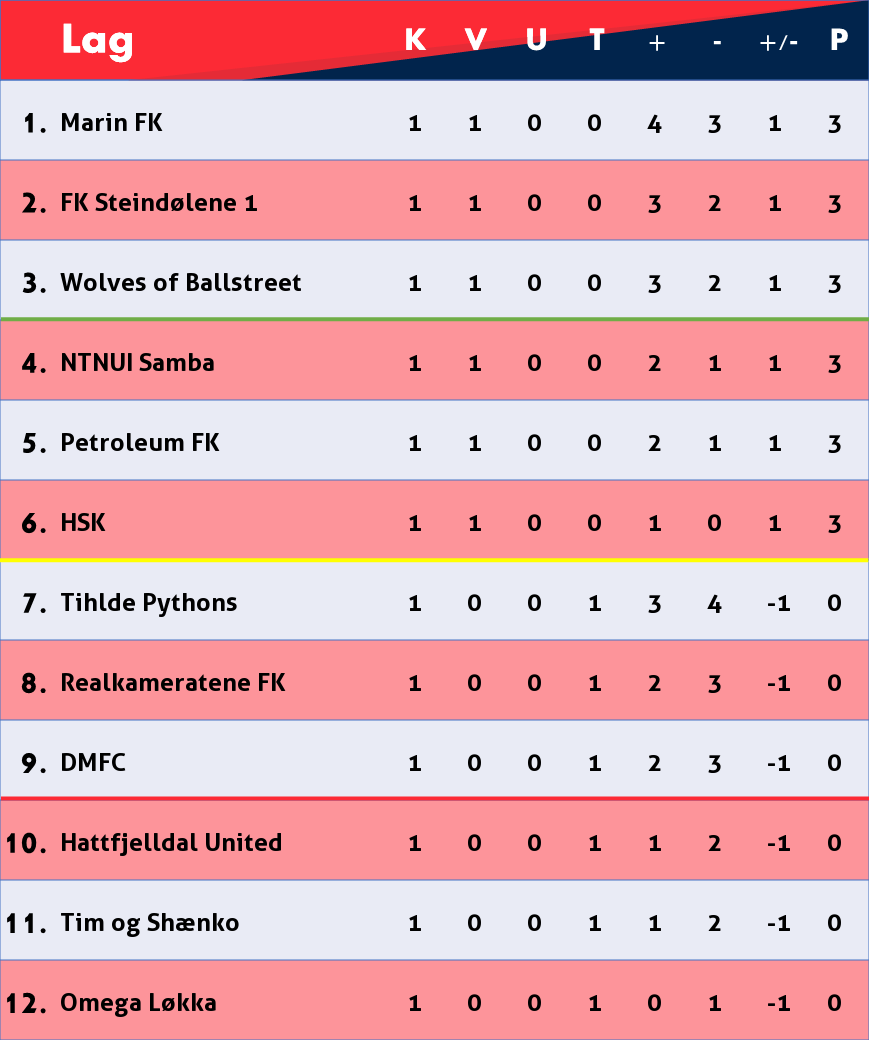
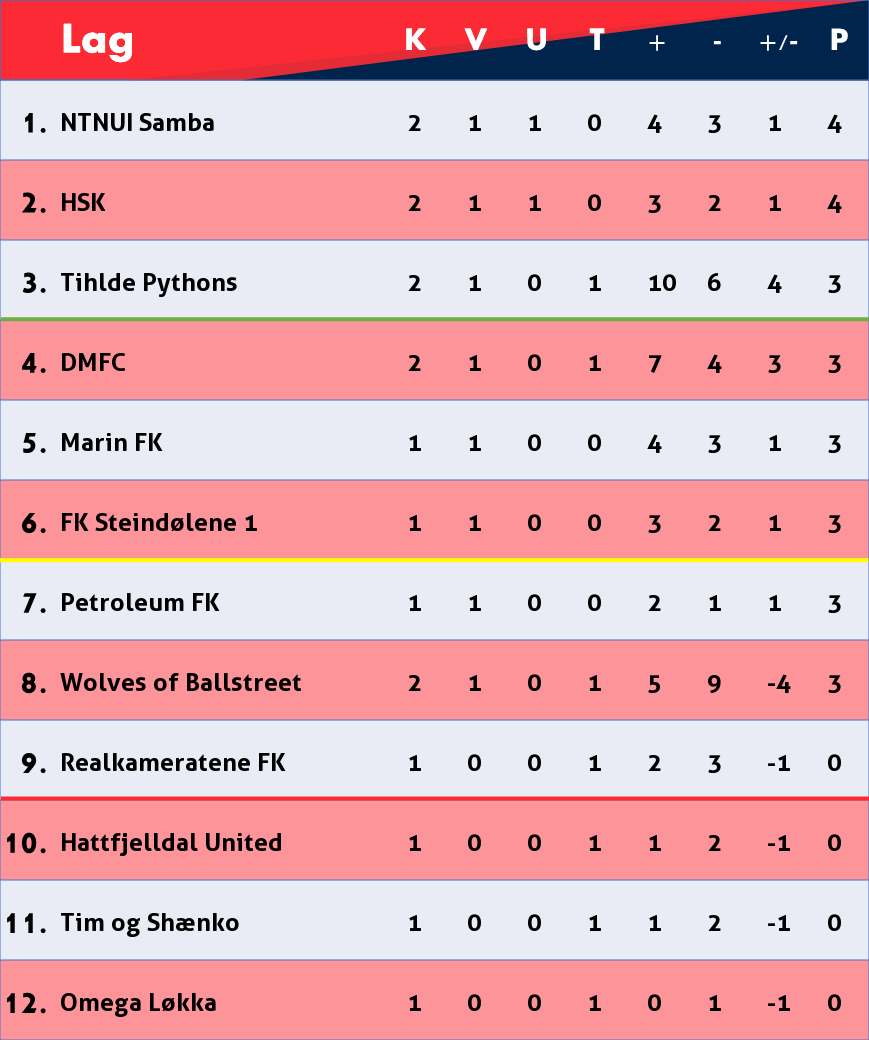
topscorer index update + tables

diff --git a/Scripts/TopScorer.py b/Scripts/TopScorer.py
@@ -27,29 +27,39 @@ def createTopScore(data, avd):
     fontS = ImageFont.truetype("Scripts/Fonts/Aller_Bd.ttf", 25)
     fontB = ImageFont.truetype("Scripts/Fonts/Aller_Bd.ttf", 30)
     y = 230
-    x = 270
+    x = 15
     xOff = [54, 64, 73]
     yOff = [146, 378, 591]
     scale = [200, 181, 163]
 
-    i = 0
+    prevGoals = 0
+    prevNum = 1
     for index, row in data.iterrows():
-        if i < 3:
-            draw.text((x, y),row[0],(0,0,0),font=fontB)
-            draw.text((x + 300, y),row[1],(0,0,0),font=fontB)
-            draw.text((x + 640, y),str(row[2]),(0,0,0),font=fontB)
-            y = y + 222 - i*10
-            logo = Image.open("Scripts/Logoer - Runde/" + row[1] + ".png")
-            size = (scale[i], scale[i])
-            logo = logo.resize(size, Image.ANTIALIAS)
-            img.paste(logo,(xOff[i], yOff[i]), mask = logo)
+
+        if row[2] == prevGoals:
+            num = prevNum
         else:
-            x = 60
-            y = 817 + 64*(i-3)
-            draw.text((x, y),row[0],(0,0,0),font=fontS)
-            draw.text((x + 510, y),row[1],(0,0,0),font=fontS)
-            draw.text((x + 850, y),str(row[2]),(0,0,0),font=fontS)
-        i+=1
+            num = index + 1
+        prevNum = num
+        prevGoals = row[2]
+
+        if index < 3:
+            draw.text((x, y),str(num)+".",(0,0,0),font=fontB)
+            draw.text((x + 255, y),row[0],(0,0,0),font=fontB)
+            draw.text((x + 565, y),row[1],(0,0,0),font=fontB)
+            draw.text((x + 895, y),str(row[2]),(0,0,0),font=fontB)
+            y = y + 222 - index*10
+            logo = Image.open("Scripts/Logoer - Runde/" + row[1] + ".png")
+            size = (scale[index], scale[index])
+            logo = logo.resize(size, Image.ANTIALIAS)
+            img.paste(logo,(xOff[index], yOff[index]), mask = logo)
+        else:
+            x = 15
+            y = 817 + 64*(index-3)
+            draw.text((x, y),str(num)+".",(0,0,0),font=fontS)
+            draw.text((x + 45, y),row[0],(0,0,0),font=fontS)
+            draw.text((x + 555, y),row[1],(0,0,0),font=fontS)
+            draw.text((x + 895, y),str(row[2]),(0,0,0),font=fontS)
 
     avdChr = chr(65 + avd)
     img.save('Scripts/Output/Avd_' + avdChr + '_TS.png')
@@ -58,10 +68,11 @@ def main(avd):
     data = readFromWeb(avd)
     data = shuffle(data)
     data = data.sort_values("Mål", ascending=False)
+    data = data.reset_index(drop=True)
     createTopScore(data, avd)
 
 
 # Velg avdeling: A = 0, B = 1
-avd = 0
+avd = 1
 
 main(avd)

diff --git a/Scripts/TableGenerator.py b/Scripts/TableGenerator.py
@@ -139,6 +139,6 @@ def main(avd):
 
 
 # Velg avdeling: A = 0, B = 1
-avd = 0
+avd = 1
 
 main(avd)
